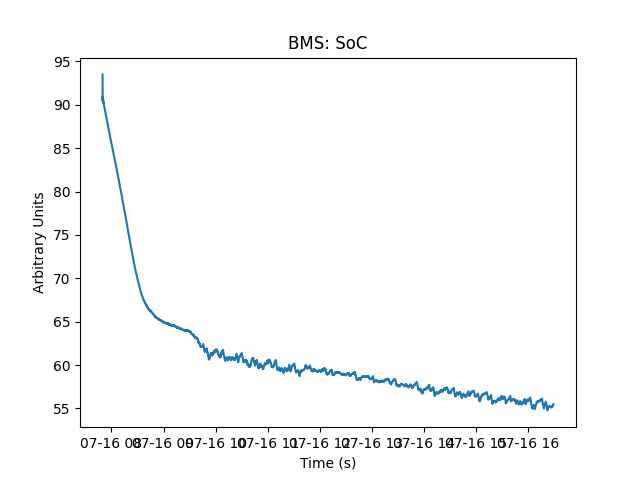
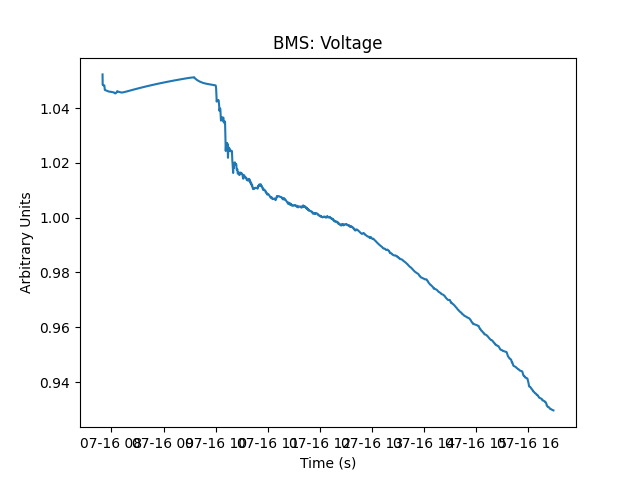
Fixed minor mistakes. Now functionaly the same as Josh's

diff --git a/Projects/SoC_Algorithm/soc.c b/Projects/SoC_Algorithm/soc.c
@@ -14,7 +14,7 @@ float g_pack_current_soc;
 //-----------------------------
 
 // Battery capacity (Coulombs)
-static const float Q_total   = 151000.0;  
+static const float Q_total   = 145000.0;  
 
 // Low-pass factor for current
 static const float alpha     = 0.9f;
@@ -54,60 +54,60 @@ static float last_predicted_V = 0.0f;
 //--- Battery Model Curves ----
 //-----------------------------
 // Coefficients based on fitting in STG's Physics repo battery_config.py
-// U_oc_coeffs = [  2964.52101072, -11872.64866062,  19108.52190655, -15842.17383716,
-//                   7225.57921631,  -1800.93540695,    254.87035949,     94.15508582 ]
+// U_oc_coeffs = [  2964.5351135  -11872.69601585  19108.58449175 -15842.2151069
+// 7225.59336211  -1800.93776157    254.87051039     94.15508448]
 static float get_Uoc(float x) {
     return
-        2964.52101072f
-      + (-11872.64866062f) * x
-      + ( 19108.52190655f) * x * x
-      + (-15842.17383716f) * x * x * x
-      + (  7225.57921631f) * x * x * x * x
-      + (-1800.93540695f) * x * x * x * x * x
-      + (   254.87035949f) * x * x * x * x * x * x
-      + (    94.15508582f) * x * x * x * x * x * x * x;
+            94.15508448
+        + 254.87051039   * x
+        + (-1800.93776157)* x * x
+        + 7225.59336211   * x * x * x
+        + (-15842.2151069)* x * x * x * x
+        + 19108.58449175  * x * x * x * x * x
+        + (-11872.69601585)* x * x * x * x * x * x
+        + 2964.5351135    * x * x * x * x * x * x * x;
 }
 
 // R_0_coeffs = [-1.54613590e+02,  5.52593795e+02, -7.94776446e+02,  5.92975205e+02,
 //               -2.47297657e+02,  5.80013511e+01, -7.19686618e+00,  4.92268729e-01]
 static float get_R0(float x) {
     return
-        -154.613590f
-      +   552.593795f  * x
-      +  -794.776446f  * x * x
-      +   592.975205f  * x * x * x
-      +  -247.297657f  * x * x * x * x
-      +    58.001351f  * x * x * x * x * x
-      +    -7.196866f  * x * x * x * x * x * x
-      +     0.4922687f * x * x * x * x * x * x * x;
+         0.492268729
+      + (-7.19686618)   * x
+      + 58.0013511      * x * x
+      + (-247.297657)   * x * x * x
+      + 592.975205      * x * x * x * x
+      + (-794.776446)   * x * x * x * x * x
+      + 552.593795      * x * x * x * x * x * x
+      + (-154.61359)    * x * x * x * x * x * x * x;
 }
 
-// R_P_coeffs = [ 1.08817913e+02, -3.95312179e+02,  5.53636103e+02, -3.69486684e+02,
-//                1.13440342e+02, -9.44922096e+00, -1.96859647e+00,  3.64860692e-01]
+// R_P_coeffs = [ 1.08804893e+02, -3.95266369e+02,  5.53572478e+02, -3.69442515e+02,
+//                1.13424395e+02, -9.44642125e+00, -1.96878597e+00,  3.64862429e-01]
 static float get_Rp(float x) {
     return
-         108.817913f
-      +  (-395.312179f)  * x
-      +   553.636103f   * x * x
-      +  (-369.486684f)  * x * x * x
-      +   113.440342f   * x * x * x * x
-      +    -9.44922096f * x * x * x * x * x
-      +    -1.96859647f * x * x * x * x * x * x
-      +     0.364860692f* x * x * x * x * x * x * x;
+         0.364862429
+      + (-1.96878597)   * x
+      + (-9.44642125)   * x * x
+      + 113.424395      * x * x * x
+      + (-369.442515)   * x * x * x * x
+      + 553.572478      * x * x * x * x * x
+      + (-395.266369)   * x * x * x * x * x * x
+      + 108.804893      * x * x * x * x * x * x * x;
 }
 
-// C_P_coeffs = [ 2.59786749e+06, -7.85135009e+06,  9.21597530e+06, -5.19570513e+06,
-//                1.38789832e+06, -1.46483144e+05,  6.37034956e+03,  2.60645952e+02]
+// C_P_coeffs = [ 2.59785258e+06, -7.85129803e+06,  9.21590368e+06, -5.19565604e+06,
+//                1.38788088e+06, -1.46480151e+05,  6.37015318e+03,  2.60647678e+02]
 static float get_Cp(float x) {
     return
-        2597867.49f
-      + (-7851350.09f)   * x
-      +  9215975.30f     * x * x
-      + (-5195705.13f)   * x * x * x
-      +  1387898.32f     * x * x * x * x
-      +  (-146483.144f)  * x * x * x * x * x
-      +    6370.34956f   * x * x * x * x * x * x
-      +     260.645952f  * x * x * x * x * x * x * x;
+         260.647678
+      + 6370.15318      * x
+      + (-146480.151)   * x * x
+      + 1387880.88      * x * x * x
+      + (-5195656.04)   * x * x * x * x
+      + 9215903.68      * x * x * x * x * x
+      + (-7851298.03)   * x * x * x * x * x * x
+      + 2597852.58      * x * x * x * x * x * x * x;
 }
 
 //-----------------------------
@@ -158,16 +158,17 @@ static void predict_state(float current, float dt) {
     float B1  = Rp * (1.0f - expf(-dt / tau));
 
     // F = [[1,0];[0, exp(-dt/tau)]]
-    float F[2][2] = {
+    float F[2][2] = {  
         {1.0f,                 0.0f},
         {0.0f, expf(-dt / tau)}
     };
+
 
     // state = F·x + B·u
     float x0 = F[0][0]*state[SOC] + F[0][1]*state[UC] + B0*current;
     float x1 = F[1][0]*state[SOC] + F[1][1]*state[UC] + B1*current;
     state[SOC] = x0;  state[UC] = x1;
-
+    
     // P = F·P·Fᵀ + Q_proc
     float Ft[2][2] = { {F[0][0], F[1][0]},
                        {F[0][1], F[1][1]} };
@@ -178,9 +179,9 @@ static void predict_state(float current, float dt) {
 }
 
 // Update only (refines state[] and P[][])
-static void update_filter(float measured_V) {
+static void update_filter(float measured_V, float current) {
     // low-pass filter current
-    filtered_I = alpha * filtered_I + (1.0f - alpha) * filtered_I;
+    filtered_I = alpha * filtered_I + (1.0f - alpha) * current;
 
     // H = [dUoc/dSOC - dR0/dSOC·I,  -1]
     float dU = central_diff(get_Uoc, fmin(1.0f, state[SOC]));
@@ -193,16 +194,18 @@ static void update_filter(float measured_V) {
     float PHt1 = P[1][0]*H0 + P[1][1]*H1;
     float S    = H0*PHt0 + H1*PHt1 + R_meas;
     
+    
     // K = P·Hᵀ / S
     float K0 = PHt0 / S;
     float K1 = PHt1 / S;
+    
     
     // Measurement Function hx = Uoc - Uc - R0·I
     float Uoc = get_Uoc(state[SOC]);
     float R0  = get_R0(state[SOC]);
     float hx   = Uoc - state[UC] - R0 * filtered_I;
     last_predicted_V = hx;
-
+    
     // Update State
     float y = measured_V - hx;
     state[SOC] += K0 * y;
@@ -243,7 +246,7 @@ void SOC_predict_then_update(float g_total_pack_voltage_soc, float g_pack_curren
     #endif // DEBUG
 
     predict_state(g_pack_current_soc, time_step);
-    update_filter(g_total_pack_voltage_soc);
+    update_filter(g_total_pack_voltage_soc, g_pack_current_soc);
 
     #ifdef DEBUG
         uint32_t soc_time_diff = HAL_GetTick() - soc_time_start;
@@ -252,5 +255,15 @@ void SOC_predict_then_update(float g_total_pack_voltage_soc, float g_pack_curren
 
 float SOC_get_soc()
 {
-    return (state[SOC] * 100);
+    return (state[SOC]);
+}
+
+float SOC_get_voltage()
+{
+    return last_predicted_V;
+}
+
+float SOC_get_Uc()
+{
+    return (state[UC]);
 }

diff --git a/Projects/SoC_Algorithm/graph_soc.py b/Projects/SoC_Algorithm/graph_soc.py
@@ -17,11 +17,28 @@ meta["length"] = len(voltage_data)
 meta['measurement'] = "BMS"
 meta['field'] = "SoC"
 
-soc_array = TimeSeries(np.loadtxt('soc.csv', dtype=float), meta=meta)
+meta_v = voltage_data._meta
+meta_v["start"] = voltage_data._start
+meta_v["stop"] = voltage_data._stop
+meta_v["units"] = ""
+meta_v["granularity"] = 0.1
+meta_v["length"] = len(voltage_data)
+meta_v["length"] = len(voltage_data)
+meta_v['measurement'] = "BMS"
+meta_v['field'] = "Voltage"
+
+
+soc_array = TimeSeries(np.loadtxt('/home/aarjav/Documents/UBC/physics/examples/kalman_filter_examples/soc.csv', dtype=float), meta=meta)
 voltage_data, soc_array = TimeSeries.align(voltage_data, soc_array)
 
 soc_array.plot(show=False)
 matplotlib.pyplot.savefig("image.png")
+
+# voltage_array = TimeSeries(np.loadtxt('/home/aarjav/Documents/UBC/physics/examples/kalman_filter_examples/last_voltage.csv', dtype=float), meta=meta_v)
+# voltage_data, voltage_array = TimeSeries.align(voltage_data, voltage_array)
+
+# voltage_array.plot(show=False)
+# matplotlib.pyplot.savefig("image_voltage.png")
 
 
 print(len(soc_array))

diff --git a/Projects/SoC_Algorithm/soc.h b/Projects/SoC_Algorithm/soc.h
@@ -14,6 +14,8 @@ extern float g_pack_current_soc;
 
 /* FUNCTION DECLARATIONS */
 void SOC_predict_then_update(float g_total_pack_voltage_soc, float g_pack_current_soc, float time_step);
-float SOC_get_soc();
+float SOC_get_soc();        // 0 - 1
+float SOC_get_voltage();
+float SOC_get_Uc();
 
 #endif // SOC_H
